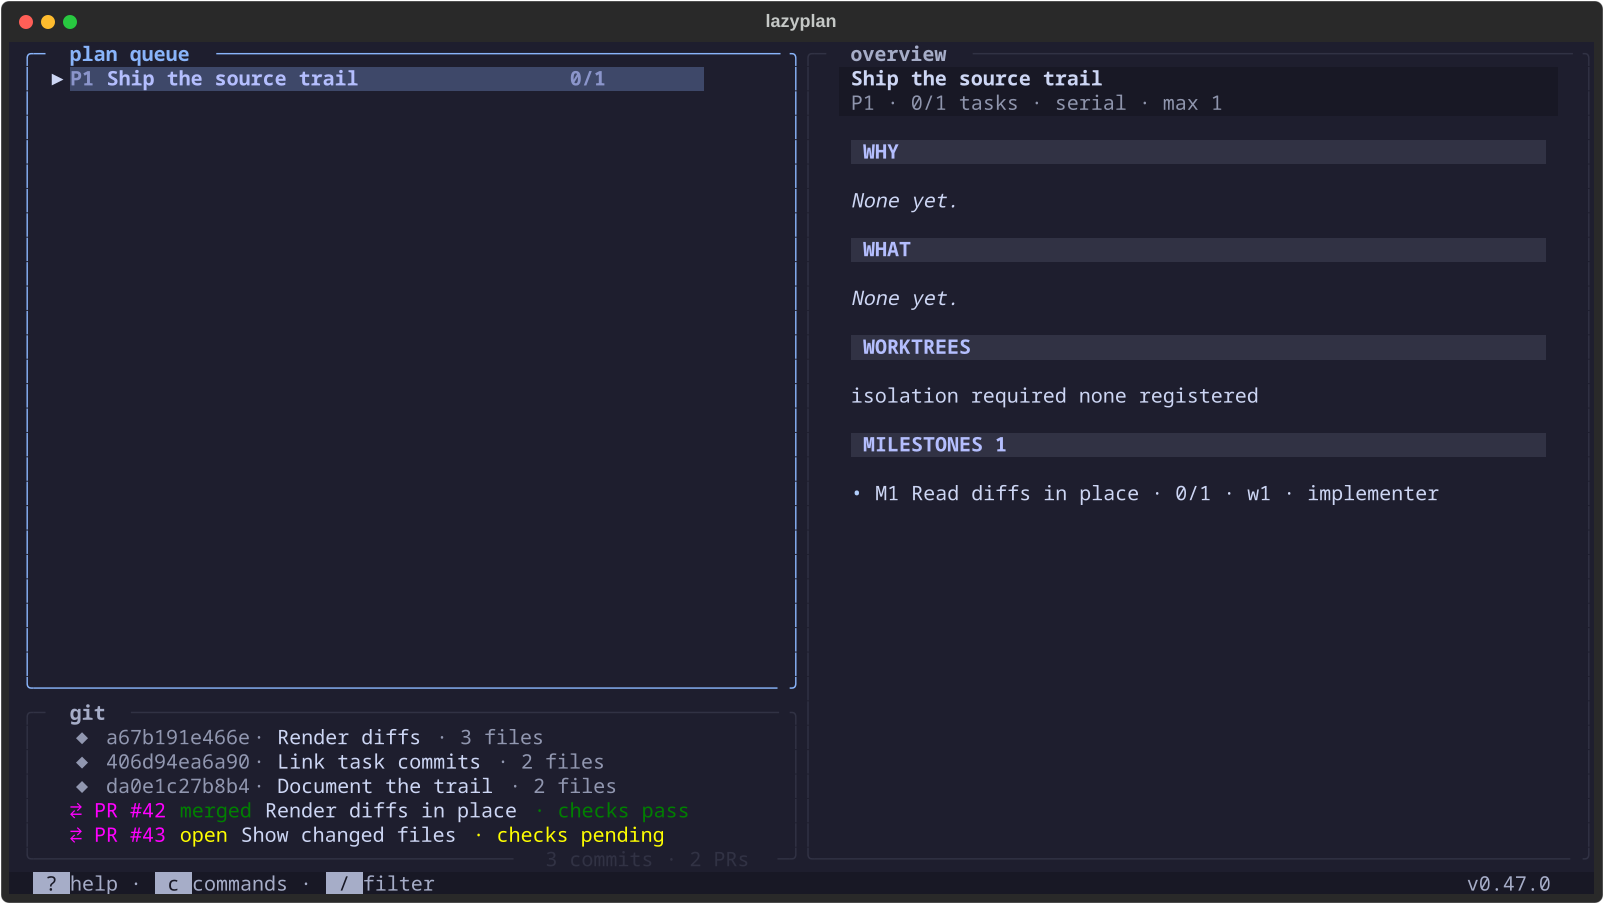
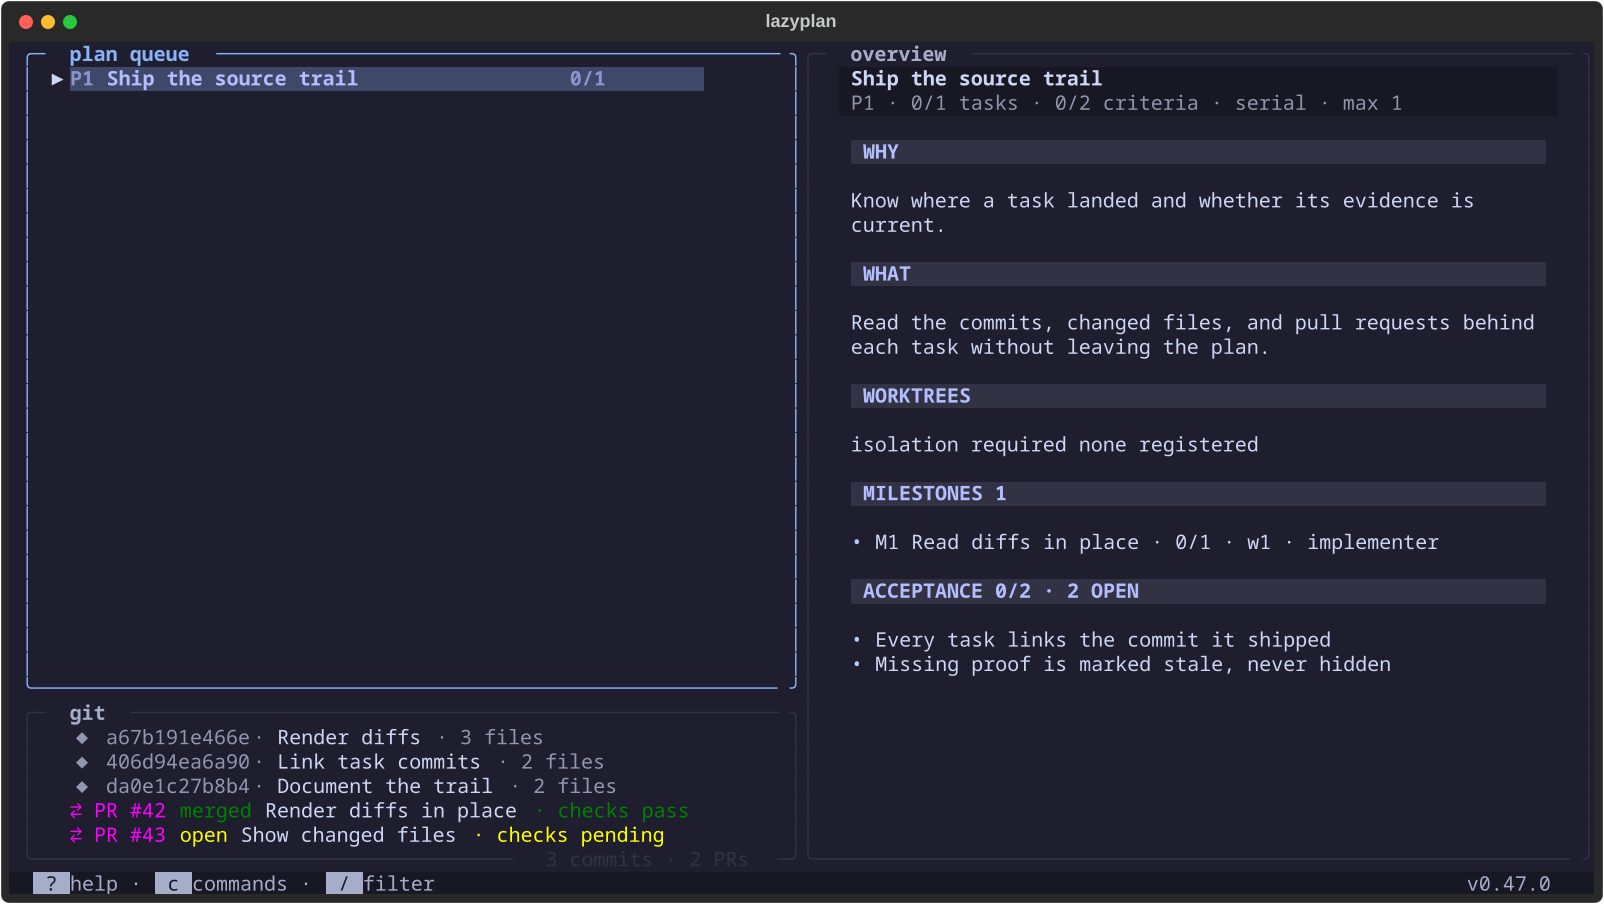
chore(shots): give the source fixture a reason, a scope, and criteria
The marketing detail and GIT captures rendered an empty overview because
the fixture plan had no why, what, or acceptance criteria. Fill them in,
describe the linked task, and regenerate the affected captures and the
hero. Publish only the screens the site references; the full review
surface stays in site/public/ux.

Lazyplan: T385

diff --git a/tools/capture-screens.py b/tools/capture-screens.py
@@ -65,6 +65,24 @@ TRANSCRIPT_SIZE = (120, 22)
 CLI_SIZE = (130, 22)
 DEFAULT_OUT = ROOT / "site" / "public" / "screens"
 FIXTURE_ROOT = Path(tempfile.gettempdir()) / "lpui-fixtures"
+
+#: Scenes the site itself publishes. The full review surface lives in
+#: ``site/public/ux``; running with ``--only`` still writes any scene anywhere.
+SITE_SCENES = frozenset(
+    {
+        "lpui-control-room",
+        "lpui-detail",
+        "lpui-dispatch",
+        "lpui-git-pane",
+        "lpui-setup",
+        "lpui-setup-review",
+        "lpui-source-trail",
+        "lpui-timeline",
+        "lpui-trace",
+        "lpui-update",
+        "lpui-worktrees",
+    }
+)
 DATE = "2026-10-01T09:00:00+00:00"
 AUTHOR = "Ada Lovelace"
 EMAIL = "ada@acme.dev"
@@ -149,9 +167,20 @@ def build_source_fixture(tmp: Path) -> Store:
     git(repo, "remote", "add", "origin", REMOTE)
 
     store = Store(str(tmp / "plan.db"))
-    plan = store.add_plan("Ship the source trail")
+    plan = store.add_plan(
+        "Ship the source trail",
+        "Read the commits, changed files, and pull requests behind each task"
+        " without leaving the plan.",
+        goal="Know where a task landed and whether its evidence is current.",
+    )
+    store.add_criteria("plan", plan.id, "Every task links the commit it shipped")
+    store.add_criteria("plan", plan.id, "Missing proof is marked stale, never hidden")
     milestone = store.add_milestone(plan.id, "Read diffs in place")
-    task = store.add_task(milestone.id, "Render unified diffs")
+    task = store.add_task(
+        milestone.id,
+        "Render unified diffs",
+        "Show additions and removals inline for the selected commit.",
+    )
     store.add_repo_link("task", task.id, str(repo), REMOTE, branch="main", base_sha=base)
     for subject, sha, files in linked:
         store.link_commit(
@@ -1236,6 +1265,8 @@ def run(out_dir: Path, only: list[str], keep_svg: Path | None, make_og: bool) ->
     os.environ.setdefault("LAZYPLAN_NO_SETUP", "1")
     os.environ.setdefault("LAZYPLAN_NO_UPDATE_CHECK", "1")
     names = only or list(SCENES)
+    if not only and out_dir == DEFAULT_OUT.resolve():
+        names = [name for name in names if name in SITE_SCENES]
     unknown = [name for name in names if name not in SCENES]
     if unknown:
         raise SystemExit(f"error: unknown scene(s): {', '.join(unknown)}")
